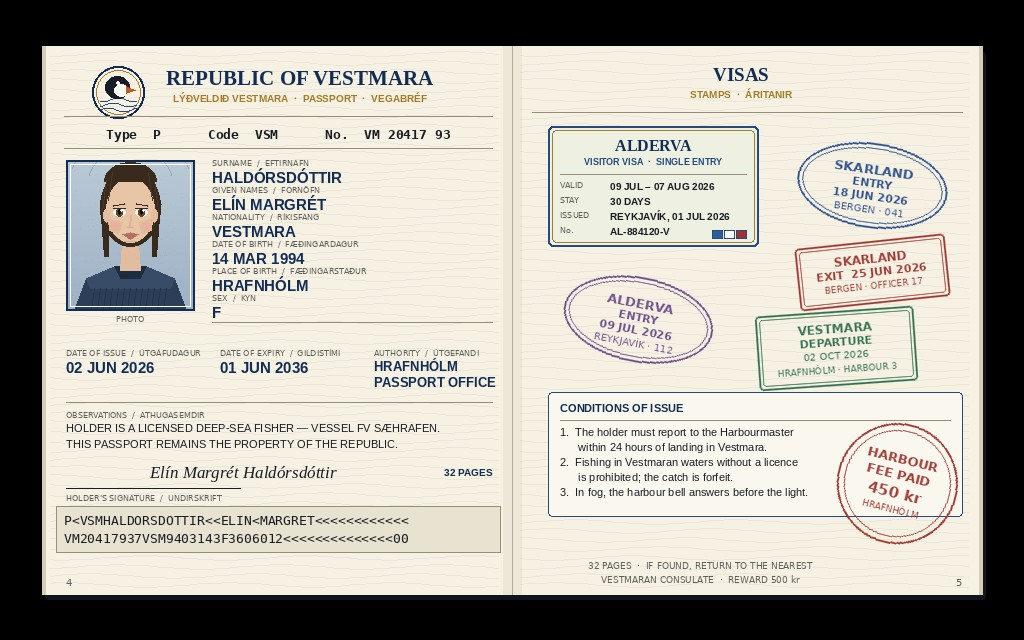
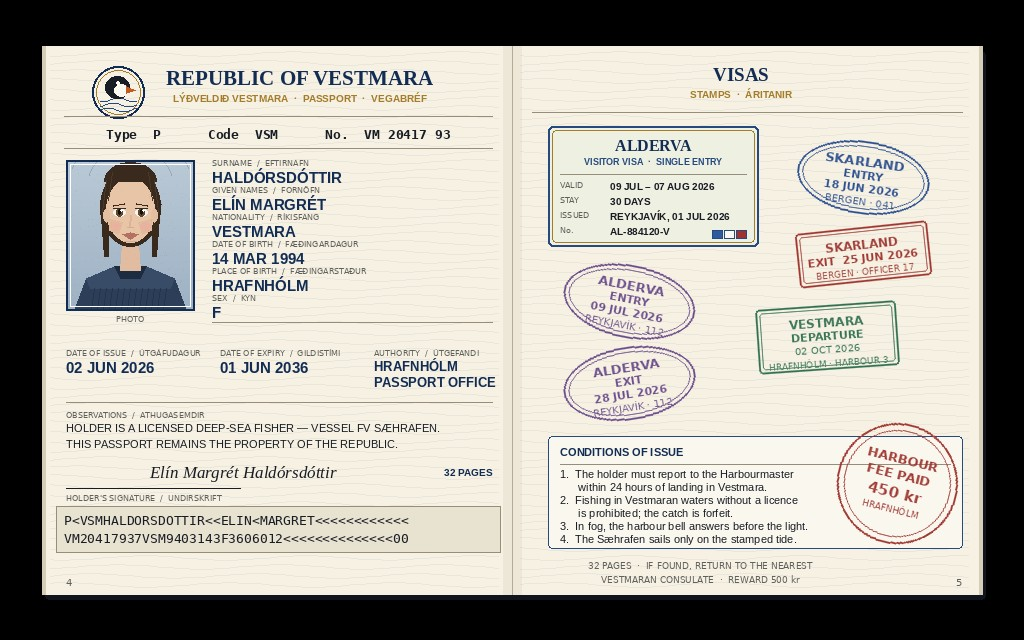
Round 2: close the Alderva trip, add the tide condition
Studied the live leaderboard: winners show paired entry/exit stamps for
every trip (e.g. Dolmar admitted 03 MAR -> departed 17 MAR; Kestrava
exit 02 AUG -> Aurenne entry 02 AUG -> exit 16 AUG -> Kestrava entry
16 AUG) and an endorsement box tied to the holder's job. v1 left the
Alderva trip open (entry only, no exit) and had 4 stamps; this round
adds Alderva EXIT 28 JUL 2026 (inside the visa validity 09 JUL-07 AUG),
re-lays the right page with 5 stamps, and adds a 4th condition tying the
holder's vessel to the country (the Saehrafen sails only on the stamped
tide). All dates still fall after the 02 JUN 2026 issue; MRZ check
digits unchanged and verified. 1024x640, 164545 bytes, deterministic.

Changed region(s): [[0.5312, 0.2188, 0.9375, 0.875], [0.8438, 0.8438, 0.875, 0.875]]

diff --git a/render_passport.py b/render_passport.py
@@ -440,31 +440,38 @@ def render(out_path="entry.png"):
         d.rectangle([vx1 - 46 + i * 12, vy1 - 16, vx1 - 36 + i * 12, vy1 - 8],
                     fill=c, outline=NAVY_LT, width=1)
 
-    # --- stamps (rotated, translucent ink)
+    # --- stamps (rotated, translucent ink) — six stamps would crowd the
+    # page, so five: every trip is closed. Skarland in/out, Alderva in/out
+    # inside its visa validity (09 JUL – 07 AUG), then Vestmara departure.
     paste_rotated(img,
-                  oval_stamp((150, 84), STAMP_BLUE,
+                  oval_stamp((132, 72), STAMP_BLUE,
                              ["SKARLAND", "ENTRY", "18 JUN 2026"],
                              sub="BERGEN · 041"),
-                  (782, 128), -8)
+                  (782, 126), -8)
     paste_rotated(img,
-                  rect_stamp(150, 62, STAMP_RED,
+                  rect_stamp(132, 54, STAMP_RED,
                              ["SKARLAND", "EXIT  25 JUN 2026"],
                              sub="BERGEN · OFFICER 17"),
-                  (782, 226), 6)
+                  (782, 212), 6)
     paste_rotated(img,
-                  oval_stamp((150, 84), STAMP_PURPLE,
+                  oval_stamp((132, 72), STAMP_PURPLE,
                              ["ALDERVA", "ENTRY", "09 JUL 2026"],
                              sub="REYKJAVÍK · 112"),
-                  (548, 262), -11)
+                  (548, 250), -11)
     paste_rotated(img,
-                  rect_stamp(158, 74, STAMP_GREEN,
+                  oval_stamp((132, 72), STAMP_PURPLE,
+                             ["ALDERVA", "EXIT", "28 JUL 2026"],
+                             sub="REYKJAVÍK · 112"),
+                  (548, 332), 9)
+    paste_rotated(img,
+                  rect_stamp(140, 64, STAMP_GREEN,
                              ["VESTMARA", "DEPARTURE", "02 OCT 2026"],
                              sub="HRAFNHÓLM · HARBOUR 3"),
-                  (742, 296), 4)
+                  (742, 290), 4)
     d = ImageDraw.Draw(img)
 
     # --- conditions box: the paperwork detail that reveals the country
-    cx0, cy0, cx1, cy1 = 548, 392, 962, 516
+    cx0, cy0, cx1, cy1 = 548, 436, 962, 548
     d.rounded_rectangle([cx0, cy0, cx1, cy1], radius=4, fill=(250, 247, 238),
                         outline=NAVY_LT, width=1)
     text(d, (cx0 + 12, cy0 + 10), "CONDITIONS OF ISSUE", SB(11), NAVY)
@@ -475,11 +482,12 @@ def render(out_path="entry.png"):
         "2.  Fishing in Vestmaran waters without a licence",
         "      is prohibited; the catch is forfeit.",
         "3.  In fog, the harbour bell answers before the light.",
+        "4.  The Sæhrafen sails only on the stamped tide.",
     ]
-    yy = cy0 + 34
+    yy = cy0 + 32
     for ln in conds:
         text(d, (cx0 + 12, yy), ln, SR(11), INK)
-        yy += 15
+        yy += 13
     # harbour fee stamp overlapping the conditions box corner
     fee = Image.new("RGBA", (150, 150), (0, 0, 0, 0))
     fd = ImageDraw.Draw(fee)

diff --git a/README.md b/README.md
@@ -4,7 +4,7 @@
 [![rank](https://make.fun/badge/the-passport-page-of-a-countr-2-20261121-0318/Auspiciouspeony/the-passport-page-of-a-countr-2-20261121-0318/rank.svg)](https://make.fun/bounty/the-passport-page-of-a-countr-2-20261121-0318/leaderboard?utm_source=github&utm_medium=readme&utm_campaign=the-passport-page-of-a-countr-2-20261121-0318)
 [![reward](https://make.fun/badge/the-passport-page-of-a-countr-2-20261121-0318/Auspiciouspeony/the-passport-page-of-a-countr-2-20261121-0318/reward.svg)](https://make.fun/bounty/the-passport-page-of-a-countr-2-20261121-0318?utm_source=github&utm_medium=readme&utm_campaign=the-passport-page-of-a-countr-2-20261121-0318)
 
-An open passport spread for the Republic of Vestmara — a North Atlantic island republic that does not exist. The left page is the data page of Elín Margrét Haldórsdóttir, a licensed deep-sea fisher from Hrafnhólm, with a portrait, bilingual Vestmaran/English fields and an ICAO 9303 MRZ with real check digits; the right page carries her travel history — Skarland entry and exit, an Alderva visitor visa and entry stamp, a Vestmara departure stamp — every date falling after the passport's 02 Jun 2026 issue and before its 01 Jun 2036 expiry, plus the conditions of issue (report to the Harbourmaster within 24 hours) and a paid harbour-fee stamp. Drawn locally by `render_passport.py` into a 1024x640 image with a fixed seed, so both grader runs produce the same file.
+An open passport spread for the Republic of Vestmara — a North Atlantic island republic that does not exist. The left page is the data page of Elín Margrét Haldórsdóttir, a licensed deep-sea fisher from Hrafnhólm, with a portrait, bilingual Vestmaran/English fields and an ICAO 9303 MRZ with real check digits; the right page carries her travel history — Skarland entry and exit, an Alderva visitor visa with matching entry and exit stamps inside its validity, a Vestmara departure stamp — every date falling after the passport's 02 Jun 2026 issue and before its 01 Jun 2036 expiry, plus the conditions of issue (report to the Harbourmaster within 24 hours; the Sæhrafen sails only on the stamped tide) and a paid harbour-fee stamp. Drawn locally by `render_passport.py` into a 1024x640 image with a fixed seed, so both grader runs produce the same file.
 
 ## Run it
 
